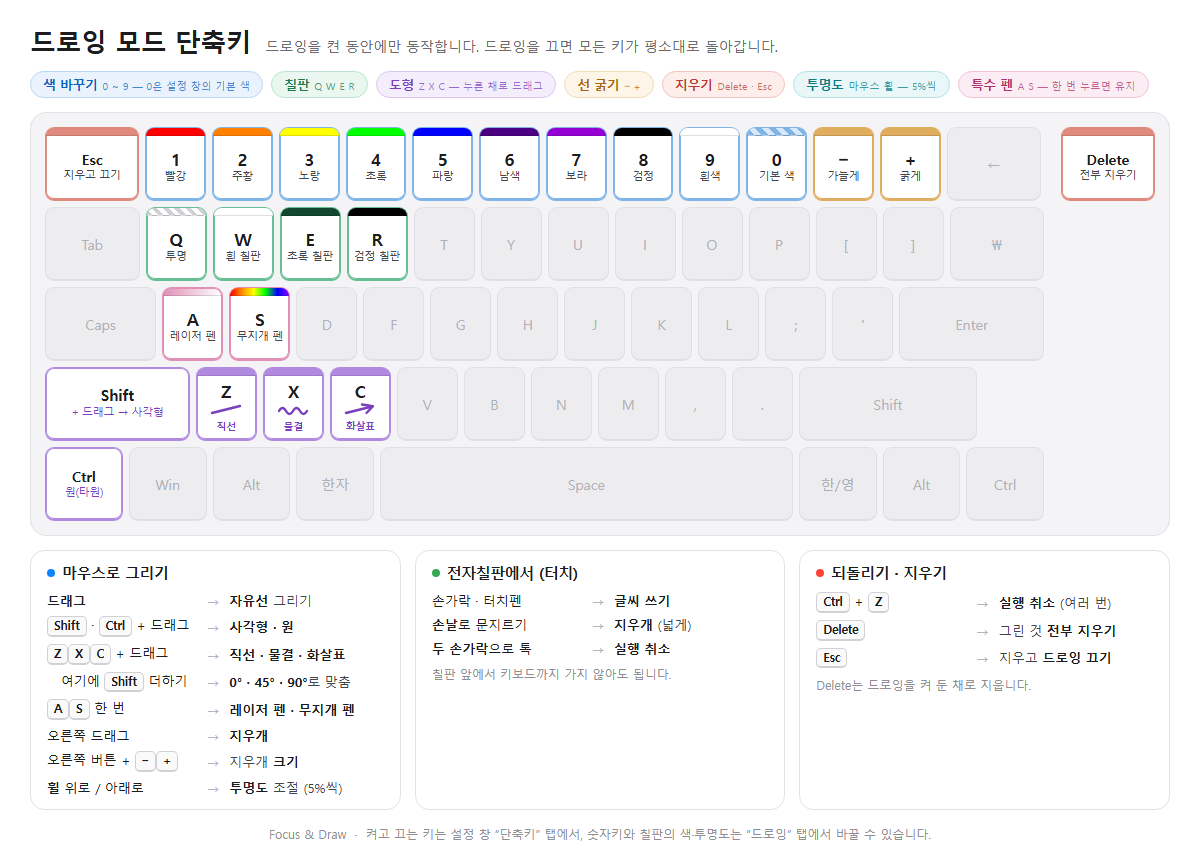
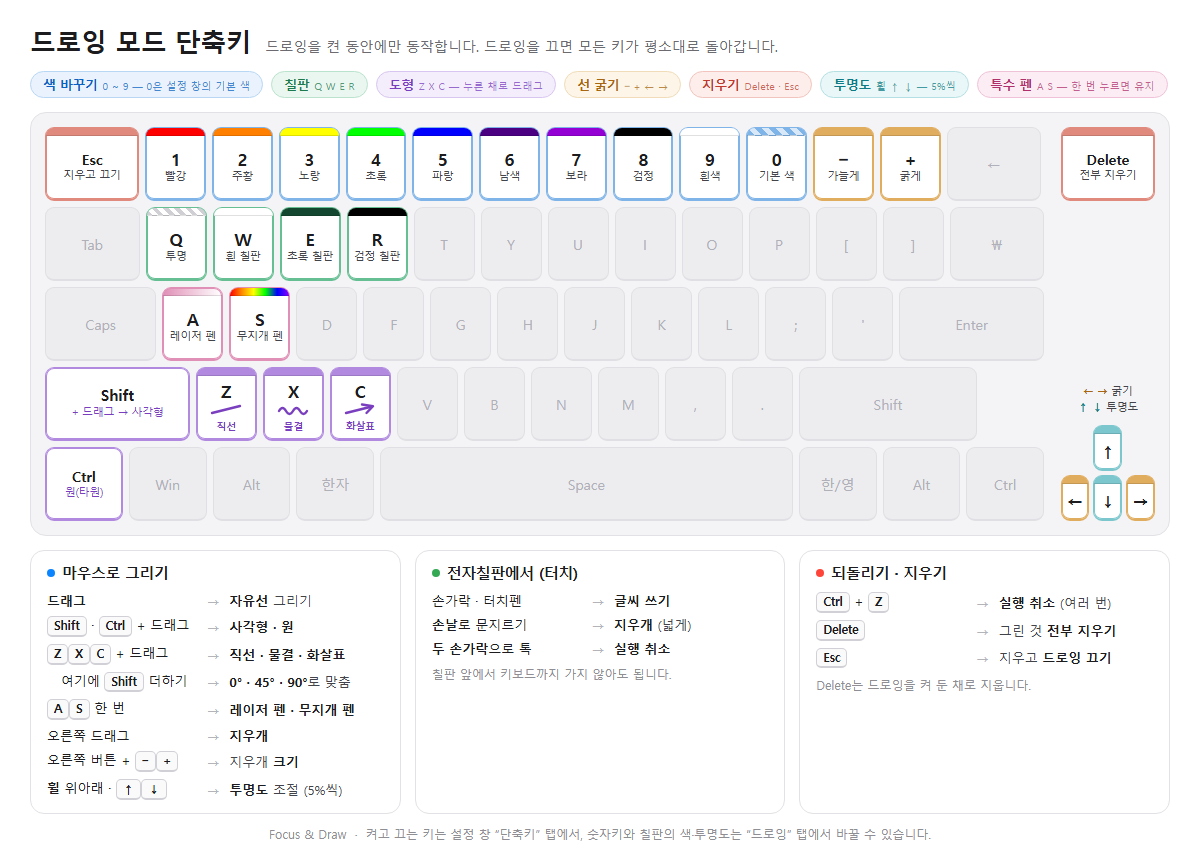
Change pen width and opacity with the arrow keys, and keep F8/F9 away from browsers on Windows
While drawing, Right/Left now work like +/- (pen width, or eraser size with
the right button held) and Up/Down work like the wheel (opacity); the old
keys and the wheel still work. The shortcut picture, readme and README show
the arrows.

When a browser is in front, the spotlight and drawing hotkeys are no longer
passed on to it, so F9 no longer opens Edge's Immersive Reader on some HTML
slides. Other programs still get the key (F8 spell check in Hangul).

diff --git a/windows/shortcuts-guide.html b/windows/shortcuts-guide.html
@@ -71,6 +71,26 @@
   /* 오른쪽에 떨어져 있는 Delete 자리(실제 키보드에서도 Backspace 오른쪽 한 칸 건너에 있다) */
   .nav { margin-left:14px; }
 
+  /* 화살표 키: Delete 아래 빈 자리에 얹는다. 줄 안에 넣지 않고 띄워 두어야 다른 키의 자리가
+     그대로다 — 프로그램이 숫자키·칠판 키 막대를 이 그림의 좌표로 다시 칠한다(GUIDE_DIGIT_X 등). */
+  .kb { position:relative; }
+  .arrows {
+    position:absolute; right:14px; bottom:14px; width:calc(1.5 * var(--u) + .5 * var(--gap));
+    display:grid; grid-template-columns:repeat(3, 1fr); gap:4px;
+  }
+  .arrows .key { height:46px; }
+  .arrows .key .cap { font-size:16px; }
+  .arrows .up { grid-column:2; grid-row:1; }
+  .arrows .left { grid-column:1; grid-row:2; }
+  .arrows .down { grid-column:2; grid-row:2; }
+  .arrows .right { grid-column:3; grid-row:2; }
+  .arrows-cap {
+    position:absolute; right:14px; bottom:120px; width:calc(1.5 * var(--u) + .5 * var(--gap));
+    text-align:center; font-size:11px; line-height:1.45; color:#43434a; letter-spacing:-.3px;
+  }
+  .arrows-cap b { font-weight:700; }
+  .on.g-alpha { border-color:#7cc7cd; box-shadow:0 0 0 1px #7cc7cd inset; }
+
   .on.g-color { border-color:#7fb4e8; box-shadow:0 0 0 1px #7fb4e8 inset; }
   .on.g-board { border-color:#66bf93; box-shadow:0 0 0 1px #66bf93 inset; }
   .on.g-shape { border-color:#b18ae0; box-shadow:0 0 0 1px #b18ae0 inset; }
@@ -114,13 +134,22 @@
     <span class="chip c-color">색 바꾸기<small>0 ~ 9 — 0은 설정 창의 기본 색</small></span>
     <span class="chip c-board">칠판<small>Q W E R</small></span>
     <span class="chip c-shape">도형<small>Z X C — 누른 채로 드래그</small></span>
-    <span class="chip c-size">선 굵기<small>&minus; &#43;</small></span>
+    <span class="chip c-size">선 굵기<small>&minus; &#43; &larr; &rarr;</small></span>
     <span class="chip c-clear">지우기<small>Delete · Esc</small></span>
-    <span class="chip c-alpha">투명도<small>마우스 휠 — 5%씩</small></span>
+    <span class="chip c-alpha">투명도<small>휠 &uarr; &darr; — 5%씩</small></span>
     <span class="chip c-pen">특수 펜<small>A S — 한 번 누르면 유지</small></span>
   </div>
 
   <div class="kb">
+
+    <!-- 화살표 묶음은 맨 앞에 둔다: 맨 뒤에 두면 마지막 줄이 :last-child가 아니게 되어 아래 간격이 붙는다 -->
+    <div class="arrows-cap"><b style="color:#a86612">&larr; &rarr;</b> 굵기<br><b style="color:#0e7c86">&uarr; &darr;</b> 투명도</div>
+    <div class="arrows">
+      <div class="key up on g-alpha bar-top"><span class="bar" style="background:#7cc7cd"></span><span class="cap">&uarr;</span></div>
+      <div class="key left on g-size bar-top"><span class="bar" style="background:#e0ac5e"></span><span class="cap">&larr;</span></div>
+      <div class="key down on g-alpha bar-top"><span class="bar" style="background:#7cc7cd"></span><span class="cap">&darr;</span></div>
+      <div class="key right on g-size bar-top"><span class="bar" style="background:#e0ac5e"></span><span class="cap">&rarr;</span></div>
+    </div>
 
     <div class="row">
       <div class="key k15 on g-clear bar-top"><span class="bar" style="background:#e08a7e"></span><span class="cap" style="font-size:14px">Esc</span><span class="note">지우고 끄기</span></div>
@@ -217,7 +246,7 @@
       <div class="line"><span class="act"><span class="kbd">A</span><span class="kbd">S</span> 한 번</span><span class="arrow">&rarr;</span><span class="what"><b>레이저 펜 · 무지개 펜</b></span></div>
       <div class="line"><span class="act">오른쪽 드래그</span><span class="arrow">&rarr;</span><span class="what"><b>지우개</b></span></div>
       <div class="line"><span class="act">오른쪽 버튼 + <span class="kbd">&minus;</span><span class="kbd">&#43;</span></span><span class="arrow">&rarr;</span><span class="what">지우개 <b>크기</b></span></div>
-      <div class="line"><span class="act"><b>휠</b> 위로 / 아래로</span><span class="arrow">&rarr;</span><span class="what"><b>투명도</b> 조절 (5%씩)</span></div>
+      <div class="line"><span class="act"><b>휠</b> 위아래 · <span class="kbd">&uarr;</span><span class="kbd">&darr;</span></span><span class="arrow">&rarr;</span><span class="what"><b>투명도</b> 조절 (5%씩)</span></div>
     </div>
 
     <div class="card">

diff --git a/docs/windows-todo.md b/docs/windows-todo.md
@@ -18,4 +18,5 @@ Windows 세션 첫마디 예: "docs/windows-todo.md를 읽고 ○○ 줄을 Wind
 | 레이저 옵션 이름 | Windows 설정 창의 "머묾" 칸 이름을 "유지됨"으로 바꿈(2026-10-06, 선생님 요청). 설정 파일 이름 `LaserHold`는 그대로 | 맥 설정 창의 "레이저 머묾"도 같은 말로(예: "레이저 유지됨") 바꾸기 | — | 설정 창 레이저 줄 이름 | 완료 (맥 2026-10-07: "레이저 유지됨") |
 | 옛 `LASER_LAYERS` 줄 | 맥 점검("ahk와 같음: 레이저 빛 겹")이 이제 옛 4겹 값이 아니라 ahk `LaserLayers()`의 식(`loop 9`, `1 + 2 * (1 - u) * g`, `(0.045 + 0.10 * u * u) * Min(1, g)`, `cache.Push([0.75, 1.0, 0])`, `cache.Push([0.3, 0.9, 0.6])`)을 글자 그대로 찾는다. 맥의 `LASER_LAYERS` 상수는 지움(2026-10-07) | 쓰지 않는 `LASER_LAYERS := [...]` 줄과 그 위 설명 주석을 지워도 된다. `LaserLayers()` 안의 위 다섯 조각 글자를 바꾸면 맥 점검이 실패하니, 식을 바꿀 때는 이 줄에 남겨 맥이 따라가게 | — | 맥 `mac/build.sh --test`의 "ahk와 같음: 레이저 빛 겹" 통과 | 완료 (2026-10-07 Windows: 줄과 주석 3줄 지움. `LaserLayers()`의 다섯 조각은 그대로 — 맥에서 `--test`로 한 번 확인) |
 | 새 버전 확인 (2.0) | 맥 2026-10-29: 설정 창을 열 때 `version.txt`를 읽어 "현재 ○ · 최신 ○ — 최신 버전입니다/새 버전이 있습니다/확인하지 못했습니다" + [받으러 가기]. 제작자 "maker_SSAM"을 누르면 https://maker-ssam.github.io/ (선생님 결정 2026-10-29, [update-check.md](update-check.md)) | **맥에서 함께 넣음**(선생님 승인): 일반 탭 `lblUpdate`·`btnDownload`, `StartUpdateCheck`(WinHttp 비동기 5초)·`ParseVersionFile`·`IsNewerVersion`, `lblAuthor` 클릭 → `Run(AUTHOR_URL)` | 없음 (설정 항목을 늘리지 않는다) | 윈도우에서 실행: 설정 창을 열면 "확인 중…" 뒤 결과 글자(`version.txt`가 아직 없으면 "확인하지 못했습니다"), 인터넷을 끄고 열기, [받으러 가기]·제작자 링크가 브라우저를 여는지, 창이 굳지 않는지 | 맥 완료 · 윈도우 실행 확인 대기 |
+| 화살표 키 (굵기·진하기) | (Windows가 먼저, 2026-10-30 선생님 요청) 드로잉 중 `→`/`←` = 굵기 한 단계(`+`/`−`와 같은 함수, 오른쪽 버튼을 누른 채면 지우개 크기), `↑`/`↓` = 진하기 5%(휠과 같은 함수). 기존 키·휠은 그대로. 드로잉 중에는 화살표가 뒤 프로그램(슬라이드 넘기기)으로 가지 않아도 된다(선생님 결정). 단축키 그림은 Delete 아래 빈 자리에 ↑ / ← ↓ → 묶음(←→ 굵기 색, ↑↓ 투명도 색) | **맥이 할 것**: 같은 동작을 `DrawController`의 키 처리에 더한다(키 코드 ←123 →124 ↓125 ↑126, 길게 누르면 반복되게). `KeyboardView` 그림에 화살표 키(맥북 배열의 오른쪽 아래 ← ↑↓ →), README "맥에서 쓰기"·`맥용 읽어주세요.txt` 키 목록에 한 줄. 자체 점검: 화살표가 굵기·진하기를 바꾸고 드로잉을 다시 켜면 설정값 | 없음 | 드로잉 중 →/←로 굵기 숫자가 뜨고, ↑/↓로 진하기 %가 뜨는지. 오른쪽 버튼 + →/←로 지우개 크기 | Windows 완료(2026-10-30), 맥 대기 |
 | 2.0.0 배포 | 맥 2026-10-29: 두 판 버전을 2.0.0으로(ahk `SetVersion`·`APP_VERSION`, `slides.html` 글), README·PARITY·맥 안내문 정리, 맥 zip 만듦 | (1) `git pull` (2) `읽어주세요.txt` 6행 "최신 버전 내려받기" 줄 아래에 한 줄: `맥을 쓰시면 같은 곳에서 Focus-Draw-2.0.0-mac.zip을 받으세요 (macOS 15 이상).` — **CRLF+BOM 그대로, 배포본의 연락처 줄은 덮지 않는다** (3) `소개자료/build.ps1`로 그림 다시 뽑기("2.0.0") (4) Ahk2Exe 컴파일 → 실행 확인 (5) `배포용/Focus & Draw/`에 exe·읽어주세요 → `Focus-Draw-2.0.0.zip` | 없음 | 메모장으로 `읽어주세요.txt`를 열어 한글이 멀쩡하고 새 줄이 있는지, exe 속성의 버전이 2.0.0인지, 설정 창 "현재 2.0.0" | 완료 (윈도우 2026-10-29: 안내문·소개자료·exe·`배포용/Focus-Draw-2.0.0.zip`. 설정 창이 "확인 중…"에서 멈추던 것을 고침 — `lblUpdate`가 전역 선언에 빠져 있었다. 선생님 화면 확인) |

diff --git a/docs/PARITY.md b/docs/PARITY.md
@@ -174,3 +174,5 @@
 | 142 | 돋보기 | 확대한 화면에서 그리기 | 완료 | T | D8 | 확대 중에도 커서 자리에 그려짐(재시험 11번) |
 | 143 | 돋보기 | 돋보기 보기 방식 | 완료 | T | D8 | README: "화면 속 화면" 권장, control+스크롤 확대는 드로잉과 겹침 주의 |
 | 144 | 모니터 | 모니터 구성이 바뀌어도 다시 시작 불필요 | 완료 | A | D6 | 학교에서 확장·주 화면 바뀜 확인(2026-10-01). 드로잉 중 선을 뽑으면 Esc처럼 꺼진다(선생님 결정: 이대로). 확장 때 위젯은 한 화면에만 있다 |
+| 145 | 드로잉 키 | 화살표 `→`/`←` = 굵기(`+`/`−`와 같음, 오른쪽 버튼과 함께면 지우개), `↑`/`↓` = 진하기(휠과 같음) (2026-10-30, 2.0.0 교체본) | 맥 할 일 | T |  | Windows 먼저. 맥은 드로잉 중 화살표를 이미 막고 있어(위 "맥에서만 다름") 키만 연결하면 된다. [windows-todo.md](windows-todo.md) "화살표 키" |
+| 146 | 단축키 | 브라우저(Edge·크롬·파이어폭스·웨일)가 앞에 있으면 강조·드로잉 단축키를 브라우저에 넘기지 않음 — Edge F9 몰입형 리더 (2026-10-30) | 해당 없음 | — |  | Windows는 그 밖의 앱에는 키를 넘긴다(한글 F8 맞춤법). 맥은 단축키를 앞 앱에 넘기지 않는 방식이라 해당 없음 — 맥 세션에서 Safari·크롬으로 한 번 확인 |

diff --git a/docs/release-notes-2.0.0.md b/docs/release-notes-2.0.0.md
@@ -13,12 +13,14 @@
 - **무지개 레이저**: `S`(무지개 펜) 다음 `A`
 - **숫자키별 굵기**: 숫자키 `1`~`9`마다 색·투명도와 함께 굵기도 정해 둘 수 있습니다
 - **휠 진하기**: 휠을 100%까지 올리면 정말 불투명해집니다(설정 창의 투명도는 처음 잡히는 진하기)
+- **화살표 키**: 드로잉 중 `→`/`←`로 굵기(`+`/`−`와 같음), `↑`/`↓`로 진하기(휠과 같음)
 - **빠르게 그은 자유선**이 더 매끄럽게 이어집니다
 - **단축키 그림**의 키 위 색 막대가 지금 설정한 색을 따라갑니다
 - 설정 창의 제작자 이름을 누르면 제작자 페이지가 열립니다
 
 ### 고친 것
 - `settings.ini`를 손으로 고쳐 숫자 자리에 글자·빈 값·`#FF0000` 같은 값이 들어가도 시작할 때 오류가 나지 않고 기본값으로 시작합니다
+- (Windows) 브라우저(Edge·크롬·파이어폭스·웨일)에서 HTML 슬라이드를 띄우고 `F9`를 누르면 가끔 Edge의 몰입형 리더가 함께 켜지던 것 — 브라우저가 앞에 있을 때는 강조·드로잉 단축키를 브라우저에 넘기지 않습니다
 
 ### 1.0을 쓰고 계셨다면
 - 새 폴더에 풀어 쓰셔도 되고, 예전 폴더의 `focus-draw.exe`만 바꿔 넣으면 `settings.ini`(색·크기·단축키)가 그대로 이어집니다

diff --git a/README.md b/README.md
@@ -120,9 +120,9 @@
 | `1` ~ `9` | 선 색 바꾸기 (기본은 빨강·주황·노랑·초록·파랑·남색·보라·검정·흰색 순 — **설정 창에서 색·투명도·굵기를 바꿀 수 있습니다**) |
 | `0` | **설정 창의 "기본 색상"으로 되돌리기** (숫자키로 잠깐 다른 색을 쓰다가 원래 쓰던 색으로 돌아올 때) |
 | `Q` / `W` / `E` / `R` | 칠판 색 (투명 / 흰색 / 초록 / 검정 — **W·E·R의 색과 투명도도 설정 창에서 바꿉니다**) |
-| `+` / `-` | 선 굵게 / 가늘게 (1~10단계) |
-| 오른쪽 버튼 + `+` / `-` | 지우개 크게 / 작게 (1~10단계) |
-| **마우스 휠** 위로 / 아래로 | 지금 쓰는 색 **진하게 / 연하게** (한 칸에 5%씩, 5~100%) |
+| `+` / `-` 또는 `→` / `←` | 선 굵게 / 가늘게 (1~10단계) |
+| 오른쪽 버튼 + `+` / `-` (또는 `→` / `←`) | 지우개 크게 / 작게 (1~10단계) |
+| **마우스 휠** 위로 / 아래로 또는 `↑` / `↓` | 지금 쓰는 색 **진하게 / 연하게** (한 칸에 5%씩, 5~100%) |
 | `Delete` | 그린 내용 전부 지우기 (드로잉 모드는 유지) |
 | `Esc` | 지우고 드로잉 모드 종료 |
 
